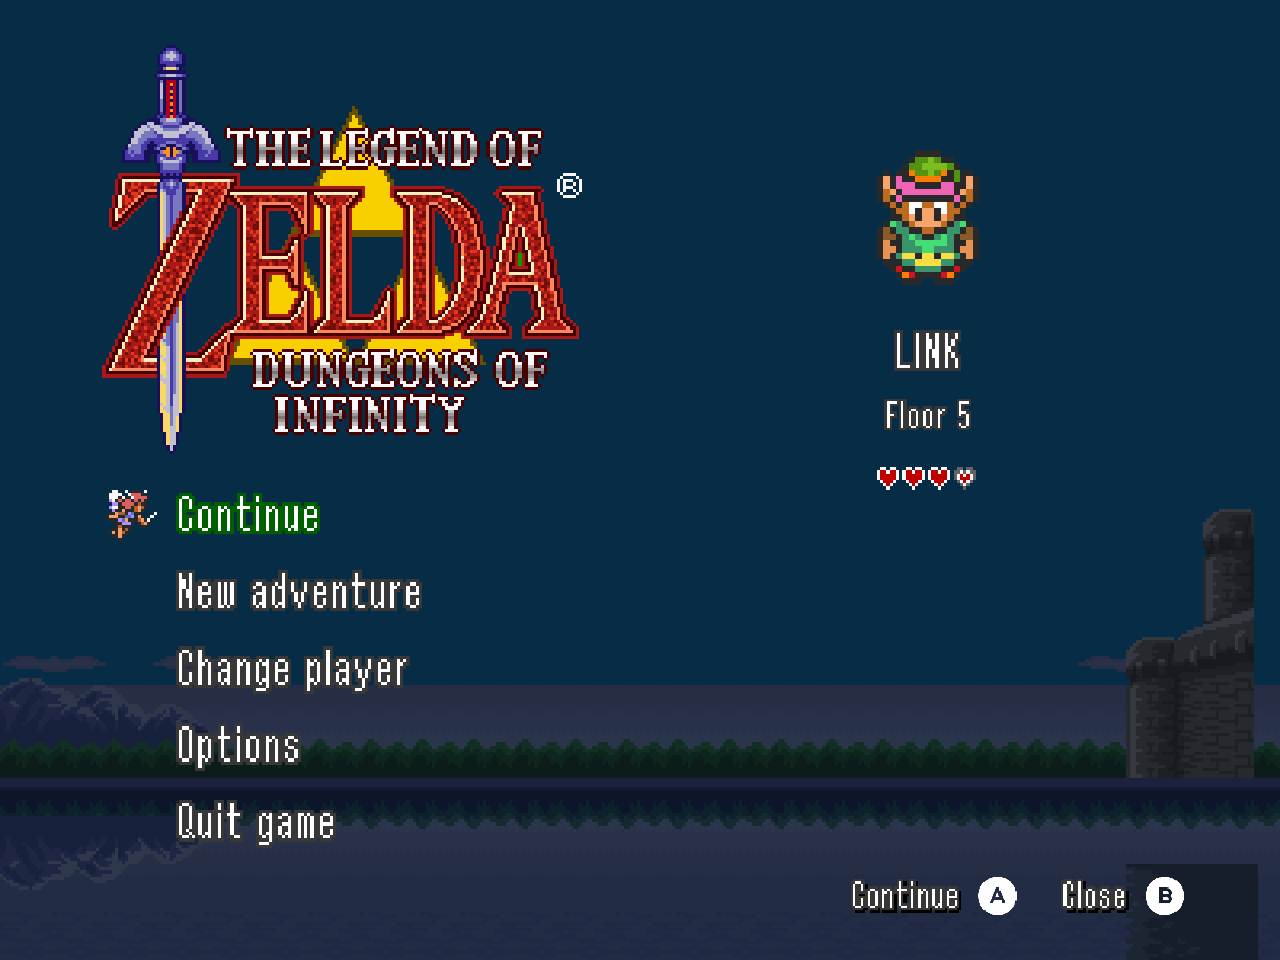
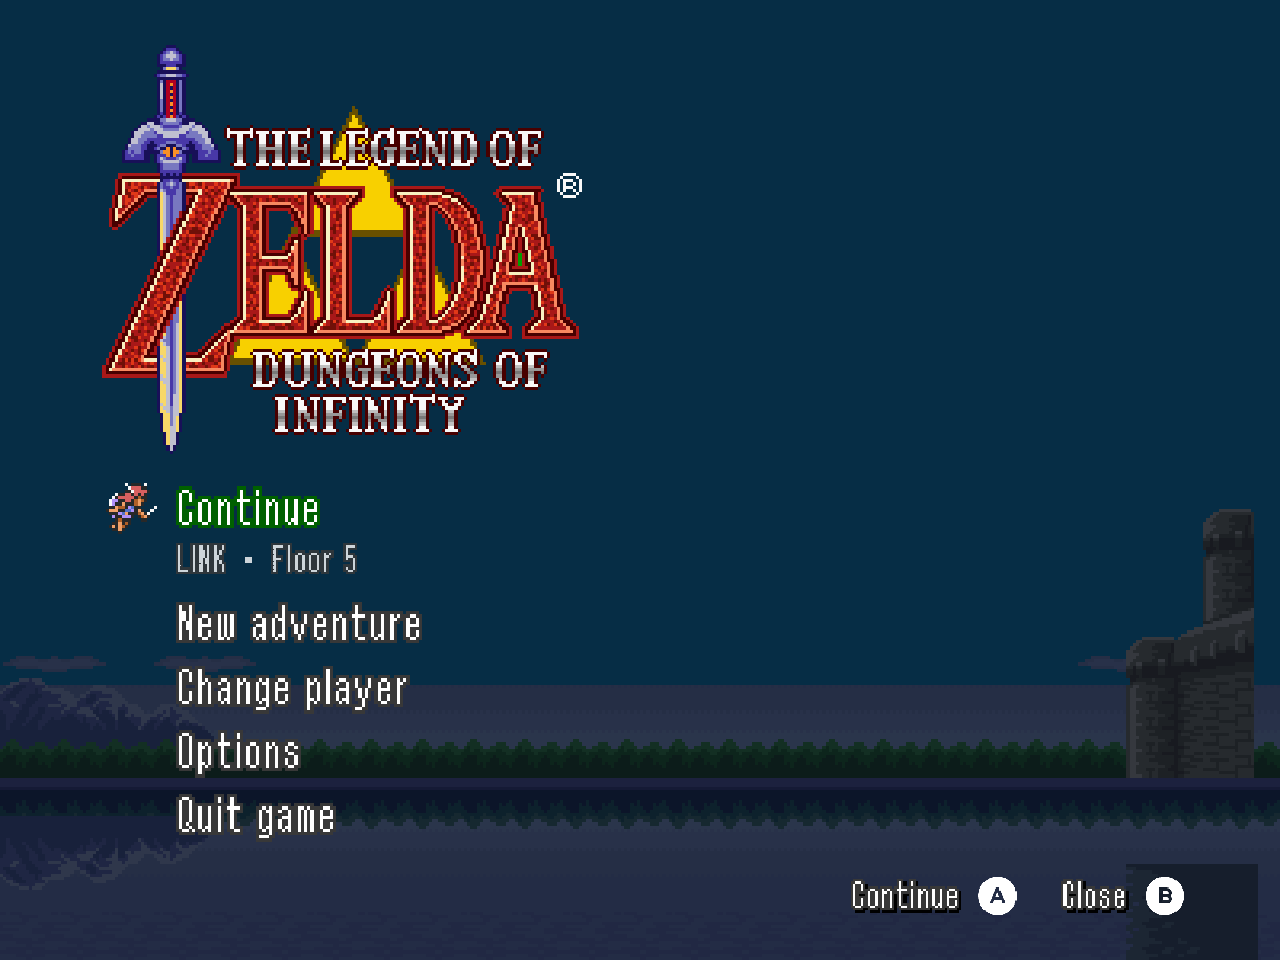
Keep the save summary with Continue

Changed region(s): [[0.0625, 0.5, 0.3438, 0.875], [0.6875, 0.1562, 0.7812, 0.3125], [0.6875, 0.3438, 0.7812, 0.5312]]

diff --git a/README.md b/README.md
@@ -75,13 +75,13 @@ Inventory and menu screenshots use test saves to show progress and full inventor
 
 | Status at a stick-click | Continue your adventure |
 | --- | --- |
-| ![Equipment, map, and dungeon progress over the playfield](screenshots/overlay.png) | ![Adventure menu with the selected player, saved hearts, and floor](screenshots/profile.png) |
+| ![Equipment, map, and dungeon progress over the playfield](screenshots/overlay.png) | ![Adventure menu with the saved name and floor beneath Continue](screenshots/profile.png) |
 
-The centered title screen leads into an adventure menu with your last selected player. Choose **Continue** to resume a saved run, or **New adventure** to choose a character, bonus and challenges in one frame. **Begin adventure** is selected by default. A fresh player starts as Link, with no required name entry.
+The centered title screen leads into an adventure menu with your last selected player. Their name and floor sit beneath **Continue**, which resumes the saved run in one press. **New adventure** lets you choose a character, bonus and challenges in one frame. **Begin adventure** is selected by default. A fresh player starts as Link, with no required name entry.
 
 ![New adventure setup with character selection, bonus, challenges and Begin adventure](screenshots/adventure-setup.png)
 
-**Change player** keeps all five save slots available. Select a player to return to their adventure, or use **Manage** for records, renaming and deletion. Starting over an existing save asks for confirmation. Options, controls, updates and credits are available before entering the dungeon.
+**Change player** keeps all five save slots available, with each saved adventure's character, floor and hearts grouped in one row. Select a player to return to their adventure, or use **Manage** for records, renaming and deletion. Starting over an existing save asks for confirmation. Options, controls, updates and credits are available before entering the dungeon.
 
 ## Playing and updating
 

diff --git a/CHANGELOG.md b/CHANGELOG.md
@@ -12,6 +12,7 @@ These versions identify the 4:3 patch, independently of the original game's vers
 
 - Use the supplied Switch 2 glyphs for controller hints. Group hints at the bottom right with labels before buttons and the primary action (A) before Close (B). Keep inventory actions in fixed positions and L/R beside page headings.
 - Keep the classic centered title reveal, then move its logo into an adventure menu with the last selected player and Continue first.
+- Place the saved name and floor beneath Continue. Show the character and hearts in Change player, grouped with each save.
 - Choose a character, bonus and challenges in one frame. Begin adventure is selected by default, and fresh players start as Link without mandatory name entry.
 - Replace stacked startup windows with a shared scene and one active frame. Keep all five players, records, renaming, controls and credits available. Move Updates into Options.
 - Keep new-run choices separate from saved progress. Confirm before replacing an adventure or deleting a player, with the safe choice selected first. Close restores the originating menu and selection.
